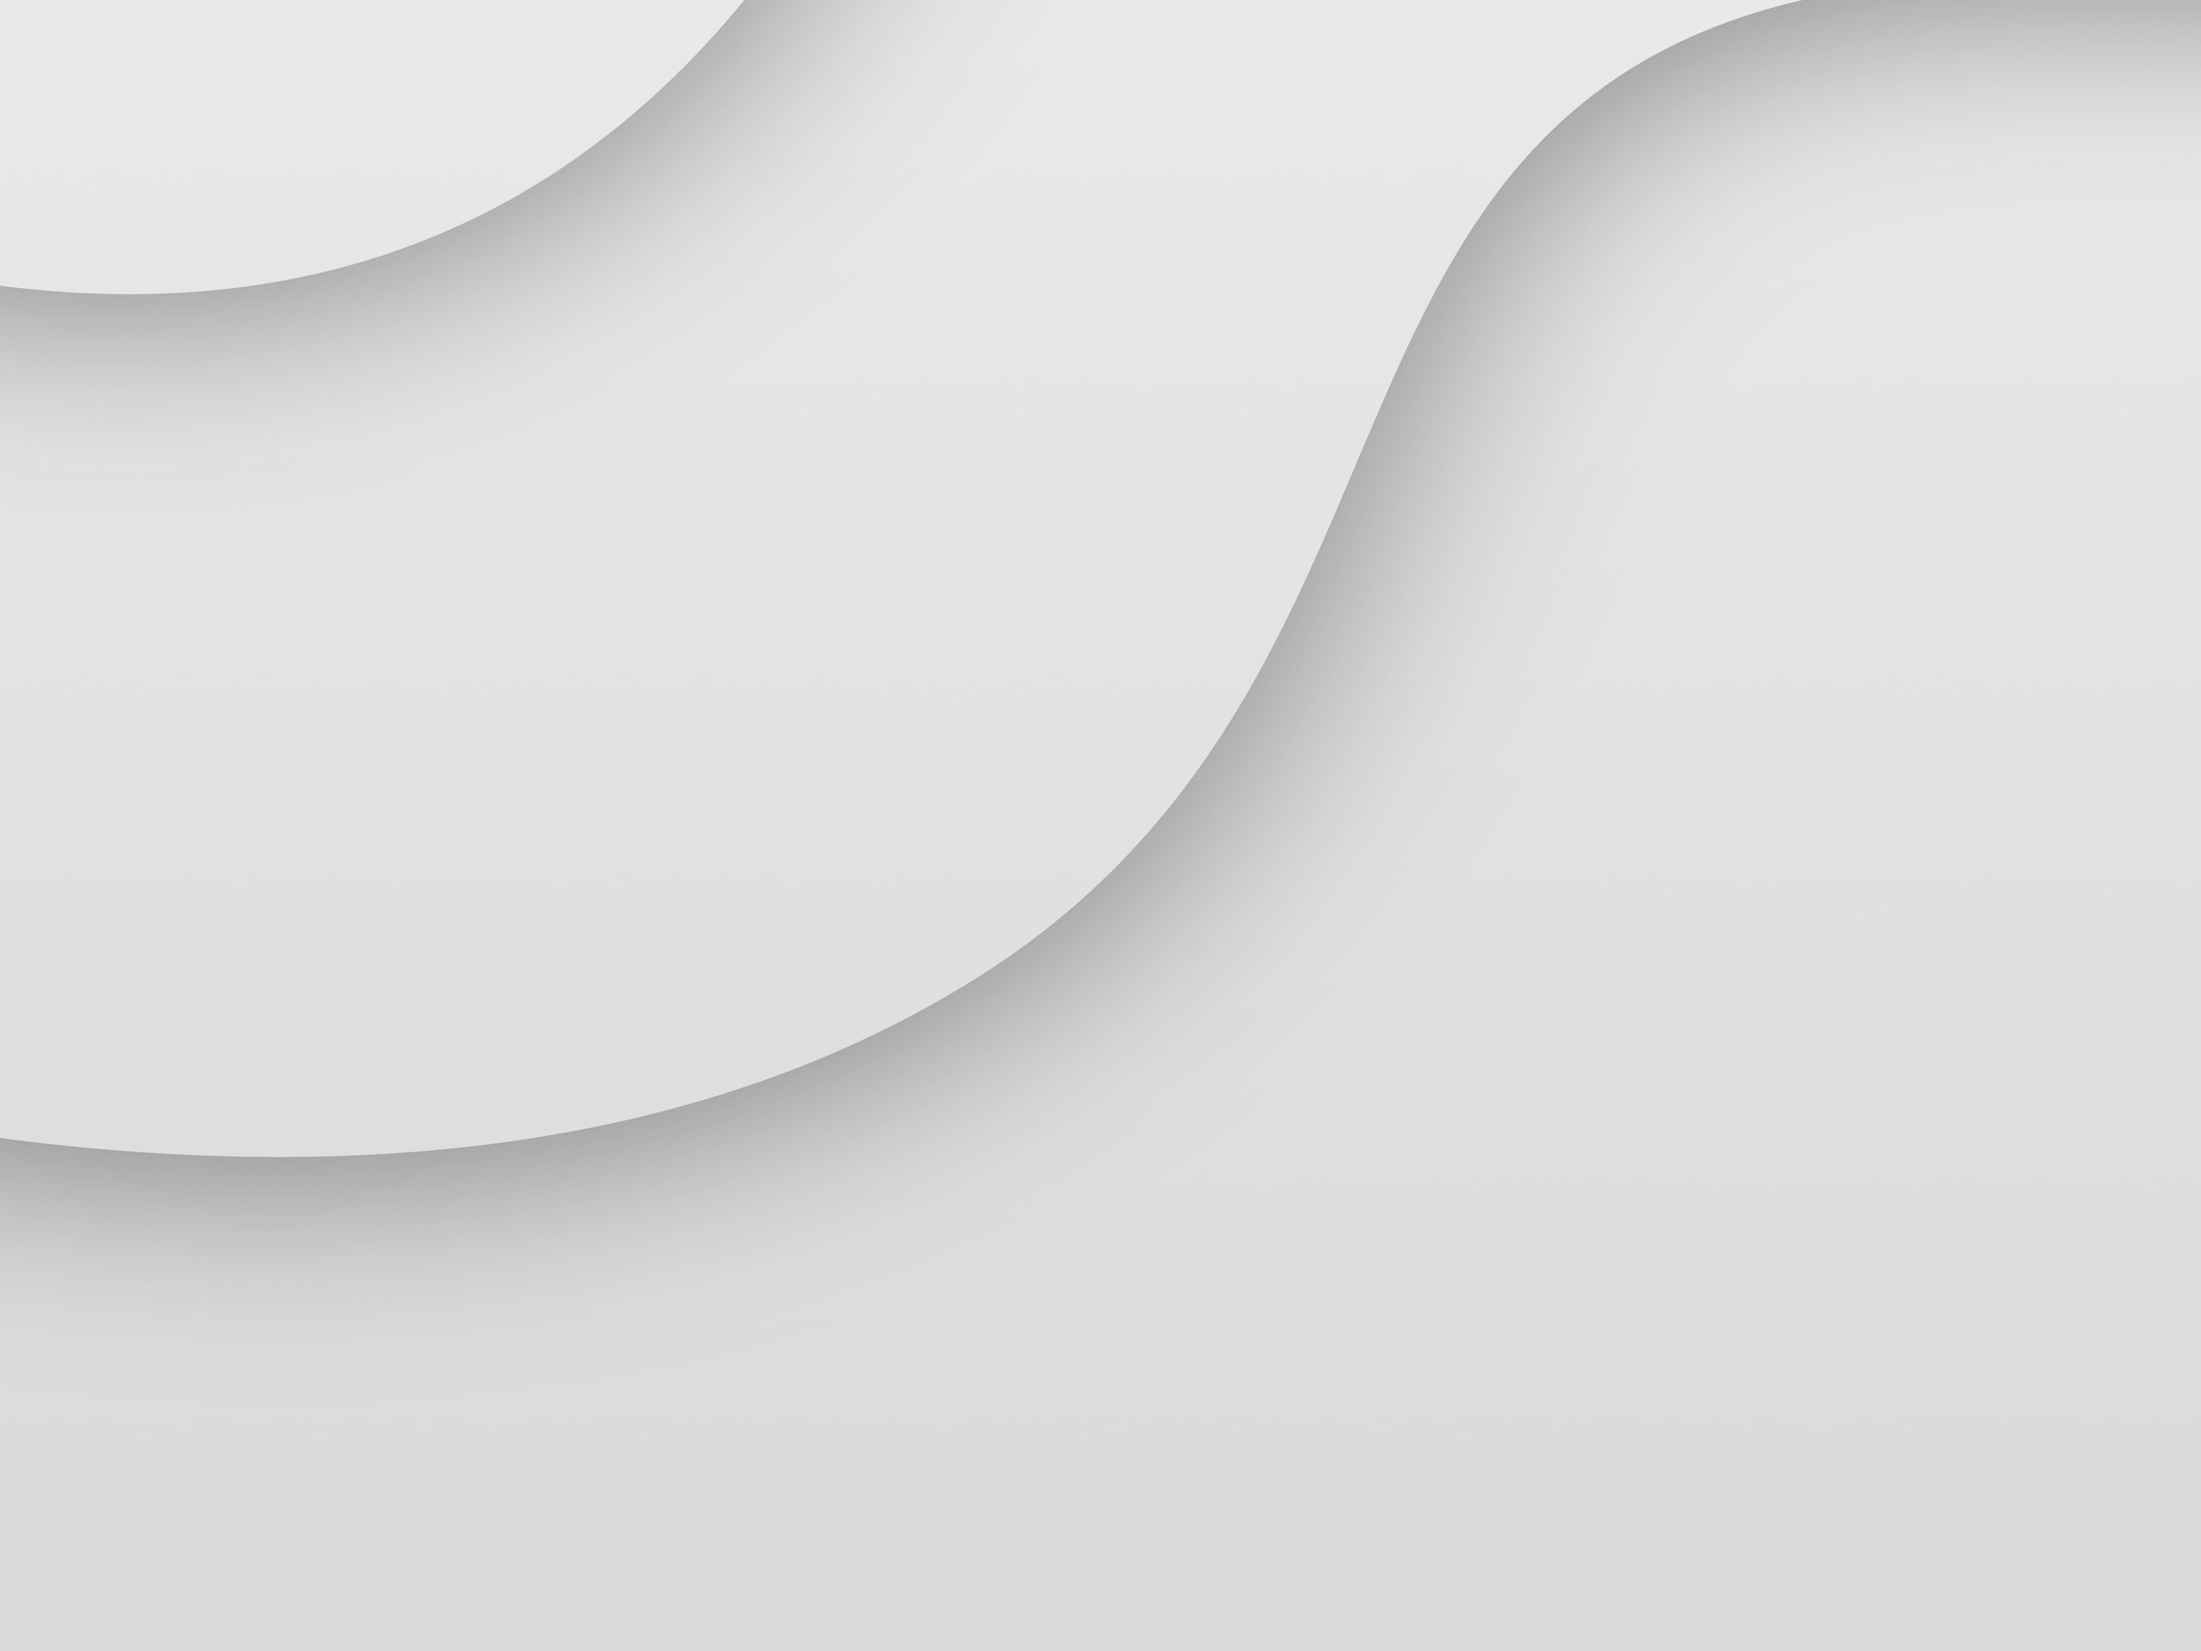
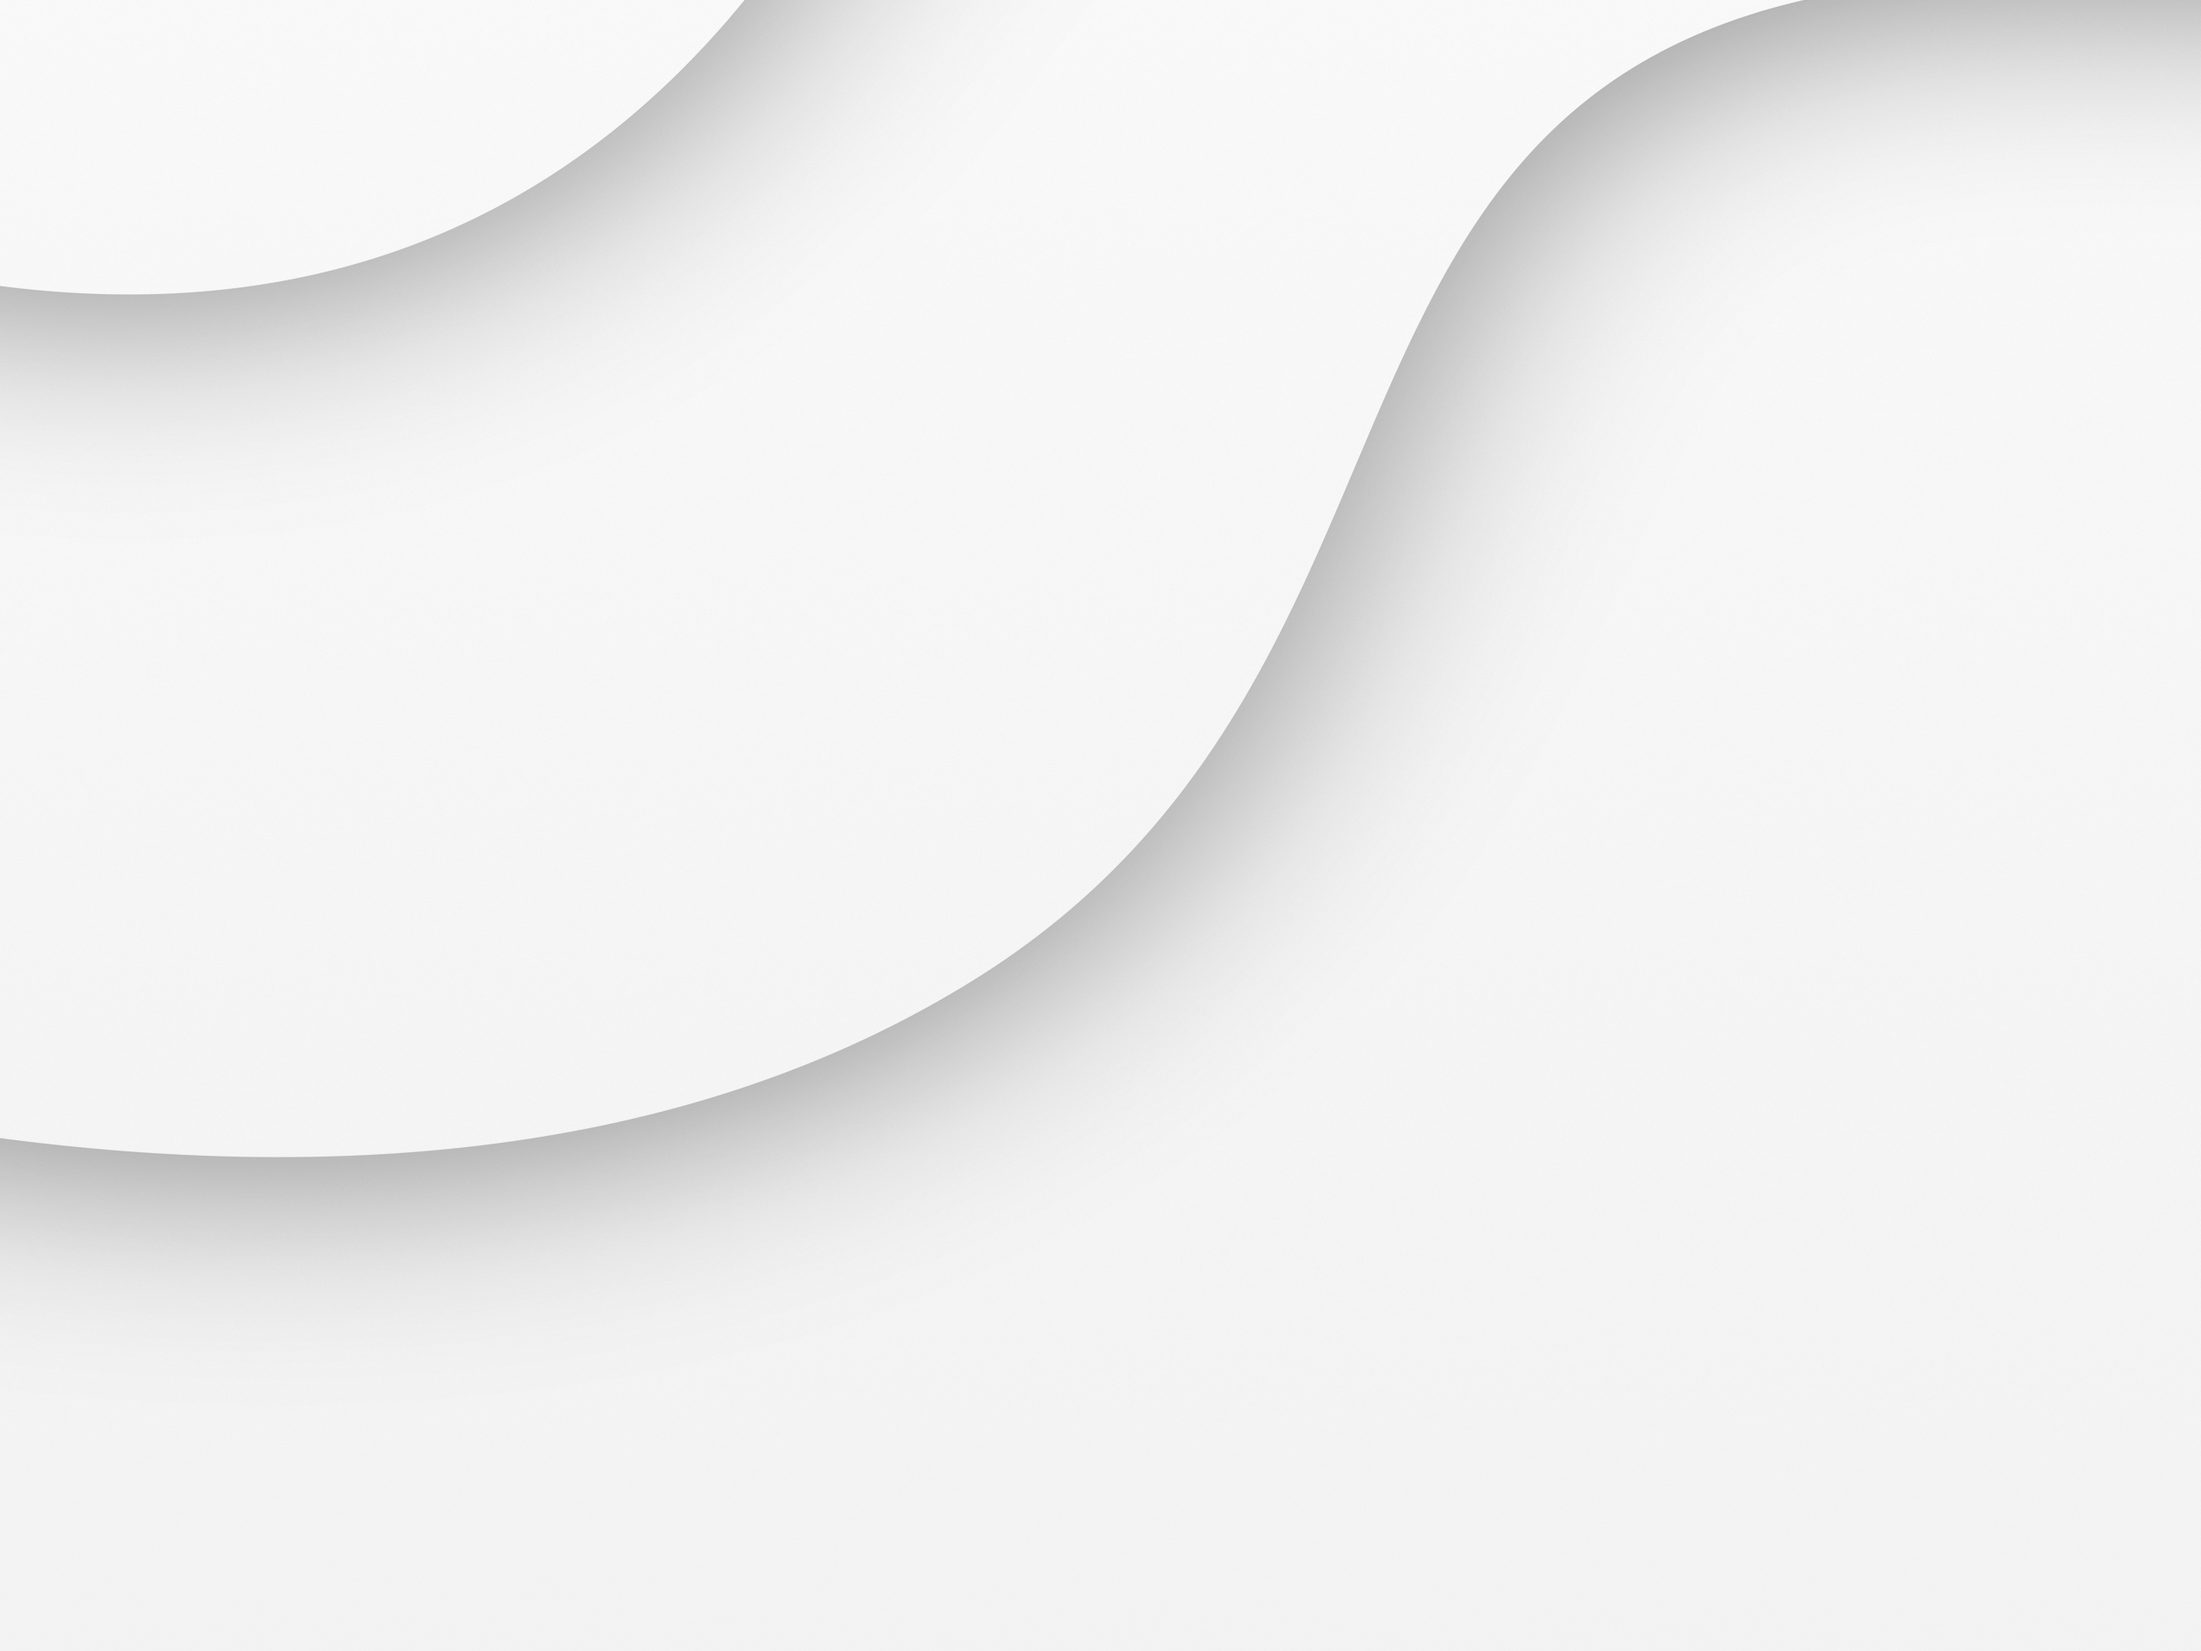
adding pricing section

Changed region(s): [[0.0, 0.8438, 1.0, 1.0]]

diff --git a/src/components/pricing/Pricing.js b/src/components/pricing/Pricing.js
@@ -7,37 +7,40 @@ const Pricing = () => {
             <div className="container">
                 <div className="row">
                     <div className="text col-12">
-                        <div className="row pricing">
+                        <div className="row">
                             <h2>Tarifs</h2>
                         </div>
-                        <div className="row pricing">
-                            <p>Lorem ipsum dolor sit amet, consectetur adipisicing elit. Debitis doloremque eius enim esse,
-                                fuga illum in ipsam labore nemo nisi possimus quas quo repellendus sit tempore temporibus
-                                voluptas? Provident, rerum.</p>
+                        <div className="row">
+                            <p>Les offres seront bientôt disponibles !</p>
                         </div>
                     </div>
                     <CardPricing
-                        format="EXPO"
-                        title="Speed meeting"
-                        details="Idéal lorsque vous souhaitez que tout .........."
-                        pricing="20"
+                        format="Freemium"
+                        pricing="0€"
+                        subscription="Sans abonnement"
+                        user="1 utilisateur"
+                        equipment="1 interphone"
+                        details="Message texte"
                     />
                     <CardPricing
-                        format="EXPO"
-                        title="Speed meeting"
-                        details="Idéal lorsque vous souhaitez que tout .........."
-                        pricing="20"
+                        format="Premium"
+                        pricing="10€"
+                        subscription="1 an d'abonnement"
+                        user="3 utilisateurs"
+                        equipment="2 interphones"
+                        details="Audio et vidéo"
                     />
                     <CardPricing
-                        format="EXPO"
-                        title="Speed meeting"
-                        details="Idéal lorsque vous souhaitez que tout .........."
-                        pricing="20"
+                        format="Entreprise"
+                        pricing="Devis"
+                        subscription="1 an d'abonnement"
+                        user="Utilisateurs multiples"
+                        equipment="Interphones multiples"
+                        details="Options personnalisées"
                     />
                 </div>
             </div>
         </div>
-
     );
 }
 

diff --git a/src/App.scss b/src/App.scss
@@ -20,6 +20,12 @@ h2 {
   font-family: "BrandonGrotesque-Bold";
 }
 
+h3 {
+  font-size: 23pt;
+  font-family: "BrandonGrotesque-Bold";
+}
+
+
 h5 {
   font-size: 20pt;
   font-weight: bold;
@@ -129,6 +135,10 @@ textarea {
   background-image: url("/images/background_vagues_top.jpg");
   background-position: bottom;
   display: flex;
+  .row {
+    margin-right: 0;
+    margin-left: 0;
+  }
   .plaque {
     max-width: 70vw;
     max-height: 70vh;
@@ -143,13 +153,19 @@ textarea {
 
 /* PRICING */
 #pricing {
-  height: 100vh;
+  min-height: 100vh;
   background-image: url("/images/background_vagues_bottom.jpg");
   background-position: top;
+  .row {
+    margin-right: 0;
+    margin-left: 0;
+  }
   .pricing_card {
     width: 350px;
     height: 550px;
-    border-radius: 20px;
+    border-radius: 0;
+    background-color: darkorange;
+    color: white;
     transition: transform .3s;
     &::after {
       transition: opacity 2s cubic-bezier(.165, .84, .44, 1);
@@ -160,21 +176,30 @@ textarea {
       transform: scale3d(1.020, 1.020, 1);
     }
     &:hover {
-      border-radius: 20px;
-    }
-    .card-header {
-      background-color: white;
-      border-bottom: 0;
-      img {
-        display: block;
-        margin-left: auto;
-        margin-right: auto;
-        width: 15vh;
-      }
+      border-radius: 0;
     }
     .pricing {
-      font-size: 28pt;
+      font-size: 4rem;
       font-weight: bold;
+      margin: 0;
+    }
+    .subscription {
+      font-size: 1.4rem;
+    }
+    .fonction {
+      margin-top: 10vh;
+      .presentation {
+        font-size: 1.2rem;
+        line-height: 1.2vh;
+        margin-left: 20px;
+      }
+    }
+    .plus {
+      a {
+        font-size: 3rem;
+        text-decoration: none;
+        color: white;
+      }
     }
   }
 }
@@ -226,6 +251,13 @@ footer {
   #pricing {
     height: 100%;
     padding-bottom: 50px;
+  }
+}
+
+@media (max-width: 991px) {
+  .pricing_card {
+    margin-left: auto;
+    margin-right: auto;
   }
 }
 

diff --git a/src/components/pricing/CardPricing.js b/src/components/pricing/CardPricing.js
@@ -3,14 +3,16 @@ import React from 'react';
 const CardPricing = (props) => {
     return (
         <div className="col-xl-4 col-lg-6 col-md-12 col-sm-12 section_pricing">
-            <div className="card pricing_card mt-5">
-                <div className="card-header mt-4">
-                    <img className="img-responsive picture_pricing" src="/images/penguin.png" alt="picture"/>
-                </div>
+            <div className="card pricing_card mt-3">
                 <div className="card-body">
-                    <h5 className="card-title mt-3 text-center">{props.title}</h5>
-                    <p className="card-text mt-5 text-center">{props.details}</p>
-                    <p className="card-text mt-5 text-center pricing">{props.pricing} €</p>
+                    <h3 className="format text-center mt-3">{props.format}</h3>
+                    <p className="pricing mt-5 text-center">{props.pricing}</p>
+                    <p className="subscription text-center">{props.subscription}</p>
+                    <div className="fonction">
+                        <p className="presentation mt-5">{props.user}</p>
+                        <p className="presentation">{props.equipment}</p>
+                        <p className="presentation">{props.details}</p>
+                    </div>
                     <OrderPricing/>
                 </div>
             </div>
@@ -20,8 +22,8 @@ const CardPricing = (props) => {
 
 const OrderPricing = () => {
     return (
-        <div className="text-center mt-5">
-            <a href="#" className="button mt-5">Commander</a>
+        <div className="plus text-center mt-5">
+            <a href="#contact" className="mt-5">+</a>
         </div>
     );
 }
